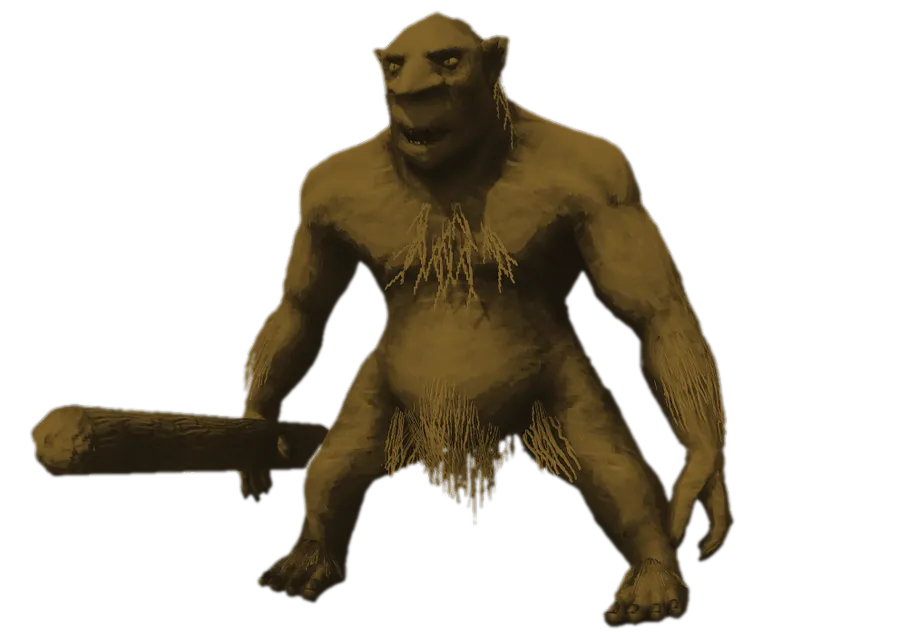
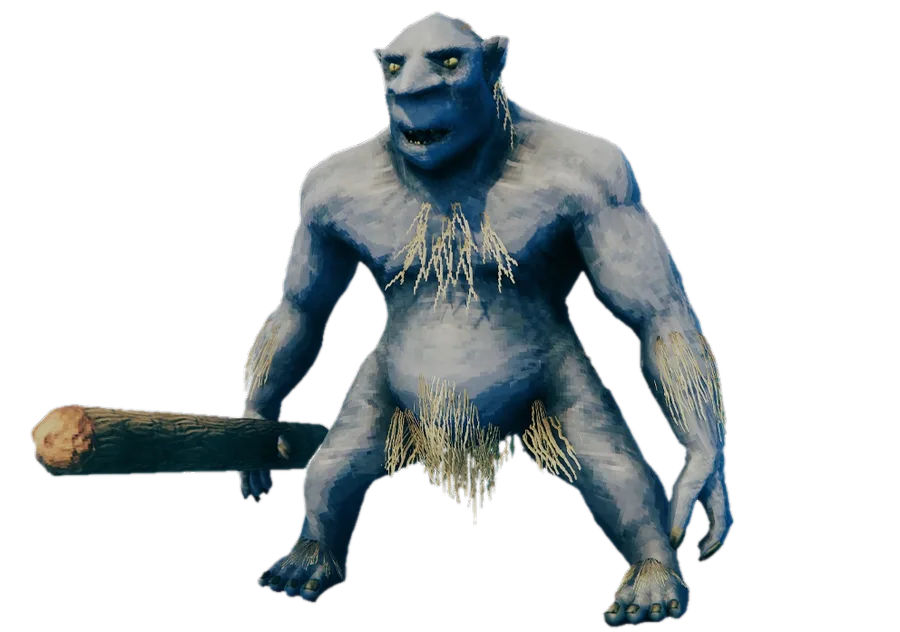
Background creatures in full colour

Changed region(s): [[0.0311, 0.0, 0.84, 0.9921]]

diff --git a/site.js b/site.js
@@ -27,13 +27,13 @@ let SERVER = null, ADMIN = null;
 const style = document.createElement('style');
 style.textContent = `
 body{position:relative}
-body::before{content:"";position:fixed;inset:0;z-index:0;pointer-events:none;opacity:.14;
+body::before{content:"";position:fixed;inset:0;z-index:0;pointer-events:none;opacity:.55;
   background:url(/bg_troll.webp) no-repeat left -70px bottom -30px / min(46vw,640px) auto, url(/bg_wolf.webp) no-repeat right -90px top 16vh / min(34vw,470px) auto}
 body::after{content:"";position:fixed;inset:0;z-index:0;pointer-events:none;background:radial-gradient(ellipse at 50% 110%,rgba(224,138,46,.10),transparent 55%),linear-gradient(180deg,transparent 60%,rgba(0,0,0,.35))}
 .wrap{position:relative;z-index:1}
 .brand{display:inline-flex;align-items:center;gap:12px}
 .brand img{width:46px;height:46px;filter:drop-shadow(0 0 10px rgba(217,164,65,.45)) drop-shadow(0 2px 2px rgba(0,0,0,.8))}
-@media (max-width:700px){body::before{opacity:.09;background-size:70vw auto, 50vw auto}}
+@media (max-width:700px){body::before{opacity:.35;background-size:70vw auto, 50vw auto}}
 
 .land{max-width:720px;margin:10px auto 30px}
 .land .hero{border:2px solid var(--line);background:linear-gradient(180deg,var(--panel-2),var(--panel));box-shadow:inset 0 0 0 1px var(--panel-3),inset 0 0 0 3px var(--line-2),0 6px 18px var(--shadow);padding:26px 28px 24px;position:relative}
